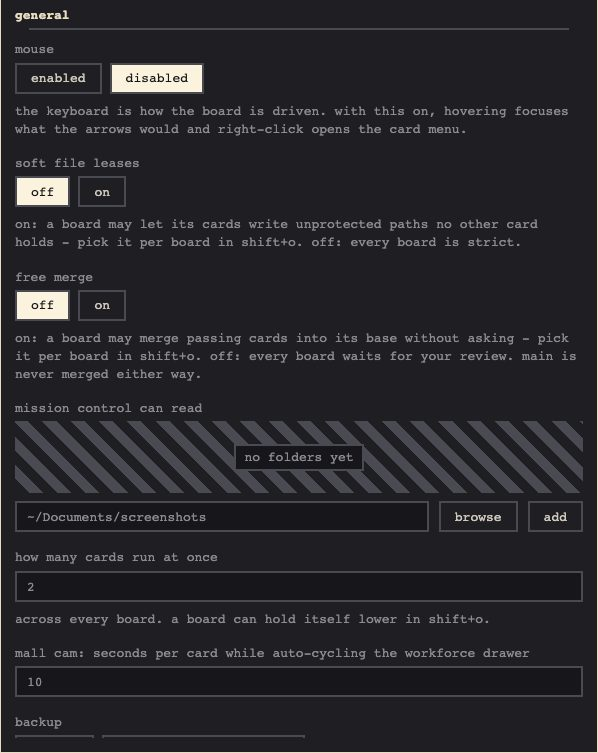
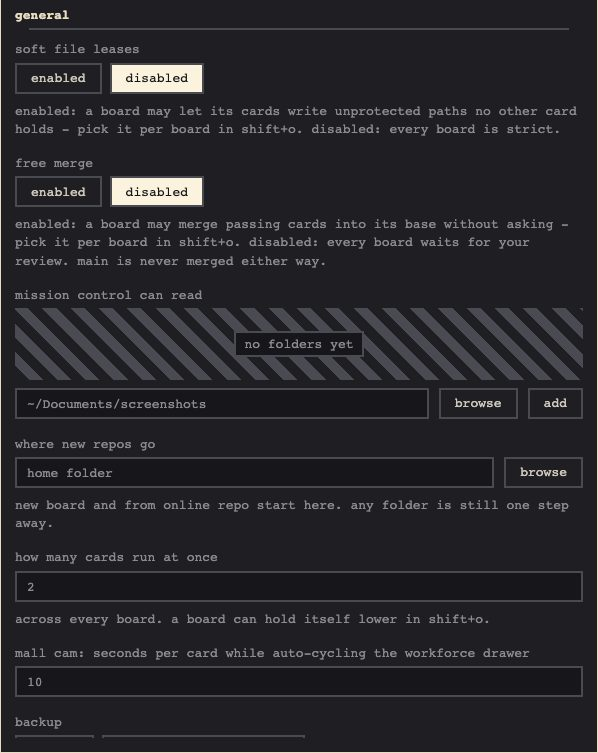
feature switches read enabled or disabled like the mouse toggle, and mouse moved to the bottom of general settings
Claude-Session: https://claude.ai/code/session_01URWV3ht5P45VqmJX8jxDtj

diff --git a/smortboard/ui/settings.js b/smortboard/ui/settings.js
@@ -95,26 +95,26 @@ async function loadUsageLimitToggle() {
 // then opts in on its own panel (shift+o). off puts every board back on strict or review
 const softLeases = choiceToggle({
   className: 'settings-soft-leases-choice',
-  choices: [['off', null], ['on', 'on']],
+  choices: [['enabled', 'on'], ['disabled', null]],
   save: value => saveSettings({allow_soft_leases: value}),
 });
 
 const freeMerge = choiceToggle({
   className: 'settings-free-merge-choice',
-  choices: [['off', null], ['on', 'on']],
+  choices: [['enabled', 'on'], ['disabled', null]],
   save: value => saveSettings({allow_free_merge: value}),
 });
 
 function buildSoftLeasesToggle() {
   softLeases.show(null);
-  return toggleWithNote(softLeases, 'on: a board may let its cards write unprotected paths no other '
-    + 'card holds - pick it per board in shift+o. off: every board is strict.');
+  return toggleWithNote(softLeases, 'enabled: a board may let its cards write unprotected paths no other '
+    + 'card holds - pick it per board in shift+o. disabled: every board is strict.');
 }
 
 function buildFreeMergeToggle() {
   freeMerge.show(null);
-  return toggleWithNote(freeMerge, 'on: a board may merge passing cards into its base without '
-    + 'asking - pick it per board in shift+o. off: every board waits for your review. main is '
+  return toggleWithNote(freeMerge, 'enabled: a board may merge passing cards into its base without '
+    + 'asking - pick it per board in shift+o. disabled: every board waits for your review. main is '
     + 'never merged either way.');
 }
 
@@ -124,7 +124,7 @@ async function loadFeatureToggles() {
     softLeases.show(settings.allow_soft_leases === 'on' ? 'on' : null);
     freeMerge.show(settings.allow_free_merge === 'on' ? 'on' : null);
   } catch {
-    // leave both off lit - off is what the server assumes for an unset key
+    // leave both disabled lit - disabled is what the server assumes for an unset key
   }
 }
 
@@ -200,7 +200,6 @@ async function loadMouseToggle() {
 
 const SETTINGS_SECTIONS = [
   {group: 'labs', label: 'usage limits', node: buildUsageLimitToggle(), onOpen: loadUsageLimitToggle},
-  {group: 'general', label: 'mouse', node: buildMouseToggle(), onOpen: loadMouseToggle},
   {group: 'general', label: 'soft file leases', node: buildSoftLeasesToggle(), onOpen: loadFeatureToggles},
   {group: 'general', label: 'free merge', node: buildFreeMergeToggle()},
 ];
@@ -996,6 +995,9 @@ SETTINGS_SECTIONS.push({
   node: buildBackupSection(),
   onOpen: () => showBackupStatus(''),
 });
+
+// last in general: the board is driven from the keyboard, so the mouse is the least of these
+SETTINGS_SECTIONS.push({group: 'general', label: 'mouse', node: buildMouseToggle(), onOpen: loadMouseToggle});
 
 function buildSettingsSection(section) {
   const box = document.createElement('div');

diff --git a/README.md b/README.md
@@ -36,7 +36,7 @@ features boards may use. `shift`+`o` for one board: merge mode, file lease, para
 
 <table>
 <tr>
-<td width="50%"><img src="docs/images/settings.jpg" width="100%" alt="Settings every board shares: the mouse, soft file leases and free merge switched on or off, folders mission control can read, how many cards run at once"><br><b>Settings</b><br><code>o</code></td>
+<td width="50%"><img src="docs/images/settings.jpg" width="100%" alt="Settings every board shares: soft file leases and free merge enabled or disabled, folders mission control can read, where new repos go, how many cards run at once"><br><b>Settings</b><br><code>o</code></td>
 <td width="50%"><img src="docs/images/board-settings.jpg" width="100%" alt="One board's own settings: review or free merge, strict or soft file leases, its own cap on cards at once and its daily budget"><br><b>Board settings</b><br><code>shift+o</code></td>
 </tr>
 </table>

diff --git a/docs/beta-test-board.md b/docs/beta-test-board.md
@@ -89,7 +89,7 @@ touch server/.gitkeep public/js/.gitkeep public/css/.gitkeep
    - **models by role**: worker sonnet. If you have a Codex profile, put the reviewer on OpenAI.
      A reviewer from another lab is the point of the gate.
    - **usage limits**: **ask me**, to see the inbox route.
-   - **soft file leases**: **on**, so section 4 can switch this board to soft later.
+   - **soft file leases**: **enabled**, so section 4 can switch this board to soft later.
 5. `shift`+`o`, this board's own settings:
    - **file lease**: leave it on **strict** for now; the table in section 4 says when to switch.
    - **daily budget**: e.g. `30`.
